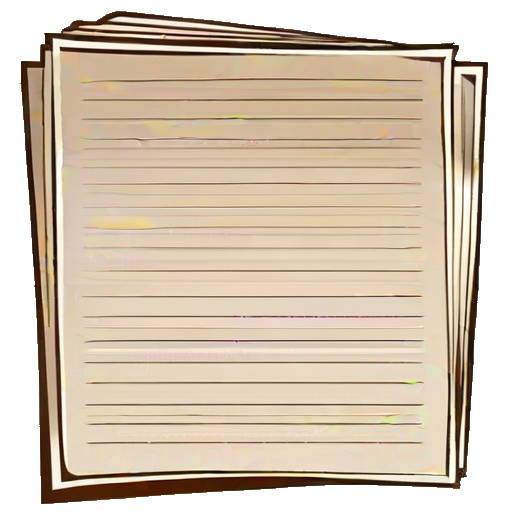
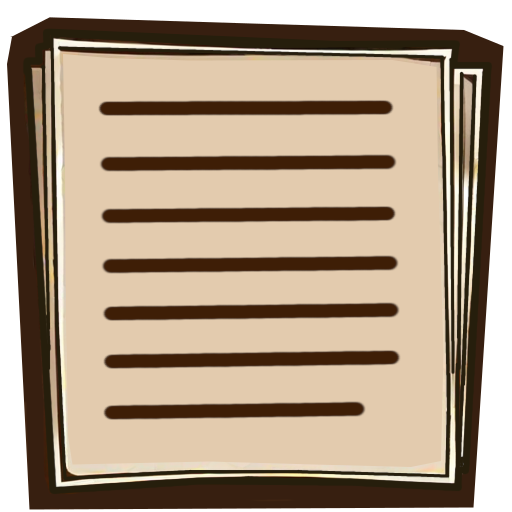
Update page images

diff --git a/src/utils.cpp b/src/utils.cpp
@@ -90,19 +90,14 @@ void create_textures(Textures &textures, std::string dataPath)
 	}
 
 	// Pages
-	SDL_Surface *forestPageImage[2];
+	SDL_Surface *forestPageImage[1];
 	forestPageImage[0] = IMG_Load((dataPath + "images/objects/page.png").c_str());
 	if (!forestPageImage[0]) {
 		printf("Error loading image: %s\n", SDL_GetError());
 		exit(1);
 	}
-	forestPageImage[1] = IMG_Load((dataPath + "images/objects/page2.png").c_str());
-	if (!forestPageImage[1]) {
-		printf("Error loading image: %s\n", SDL_GetError());
-		exit(1);
-	}
-	glGenTextures(2, textures.forestPage);
-	for (int i = 0; i < 2; i++) {
+	glGenTextures(1, textures.forestPage);
+	for (int i = 0; i < 1; i++) {
 		SDL_Surface* formattedSurface = format_sdl_surface(forestPageImage[i]);
 		if (!formattedSurface) {
 			exit(1);

diff --git a/src/main.cpp b/src/main.cpp
@@ -99,7 +99,7 @@ void forest_init(GameStateForest &gameStateForest)
 		obj.phase = (((GLfloat)(rand() % 1000)) / 1000.0f) * 3.141 * 2;
 
 		obj.animIdx = 0;
-		obj.animSize = 2;
+		obj.animSize = 1;
 	}
 }
 
